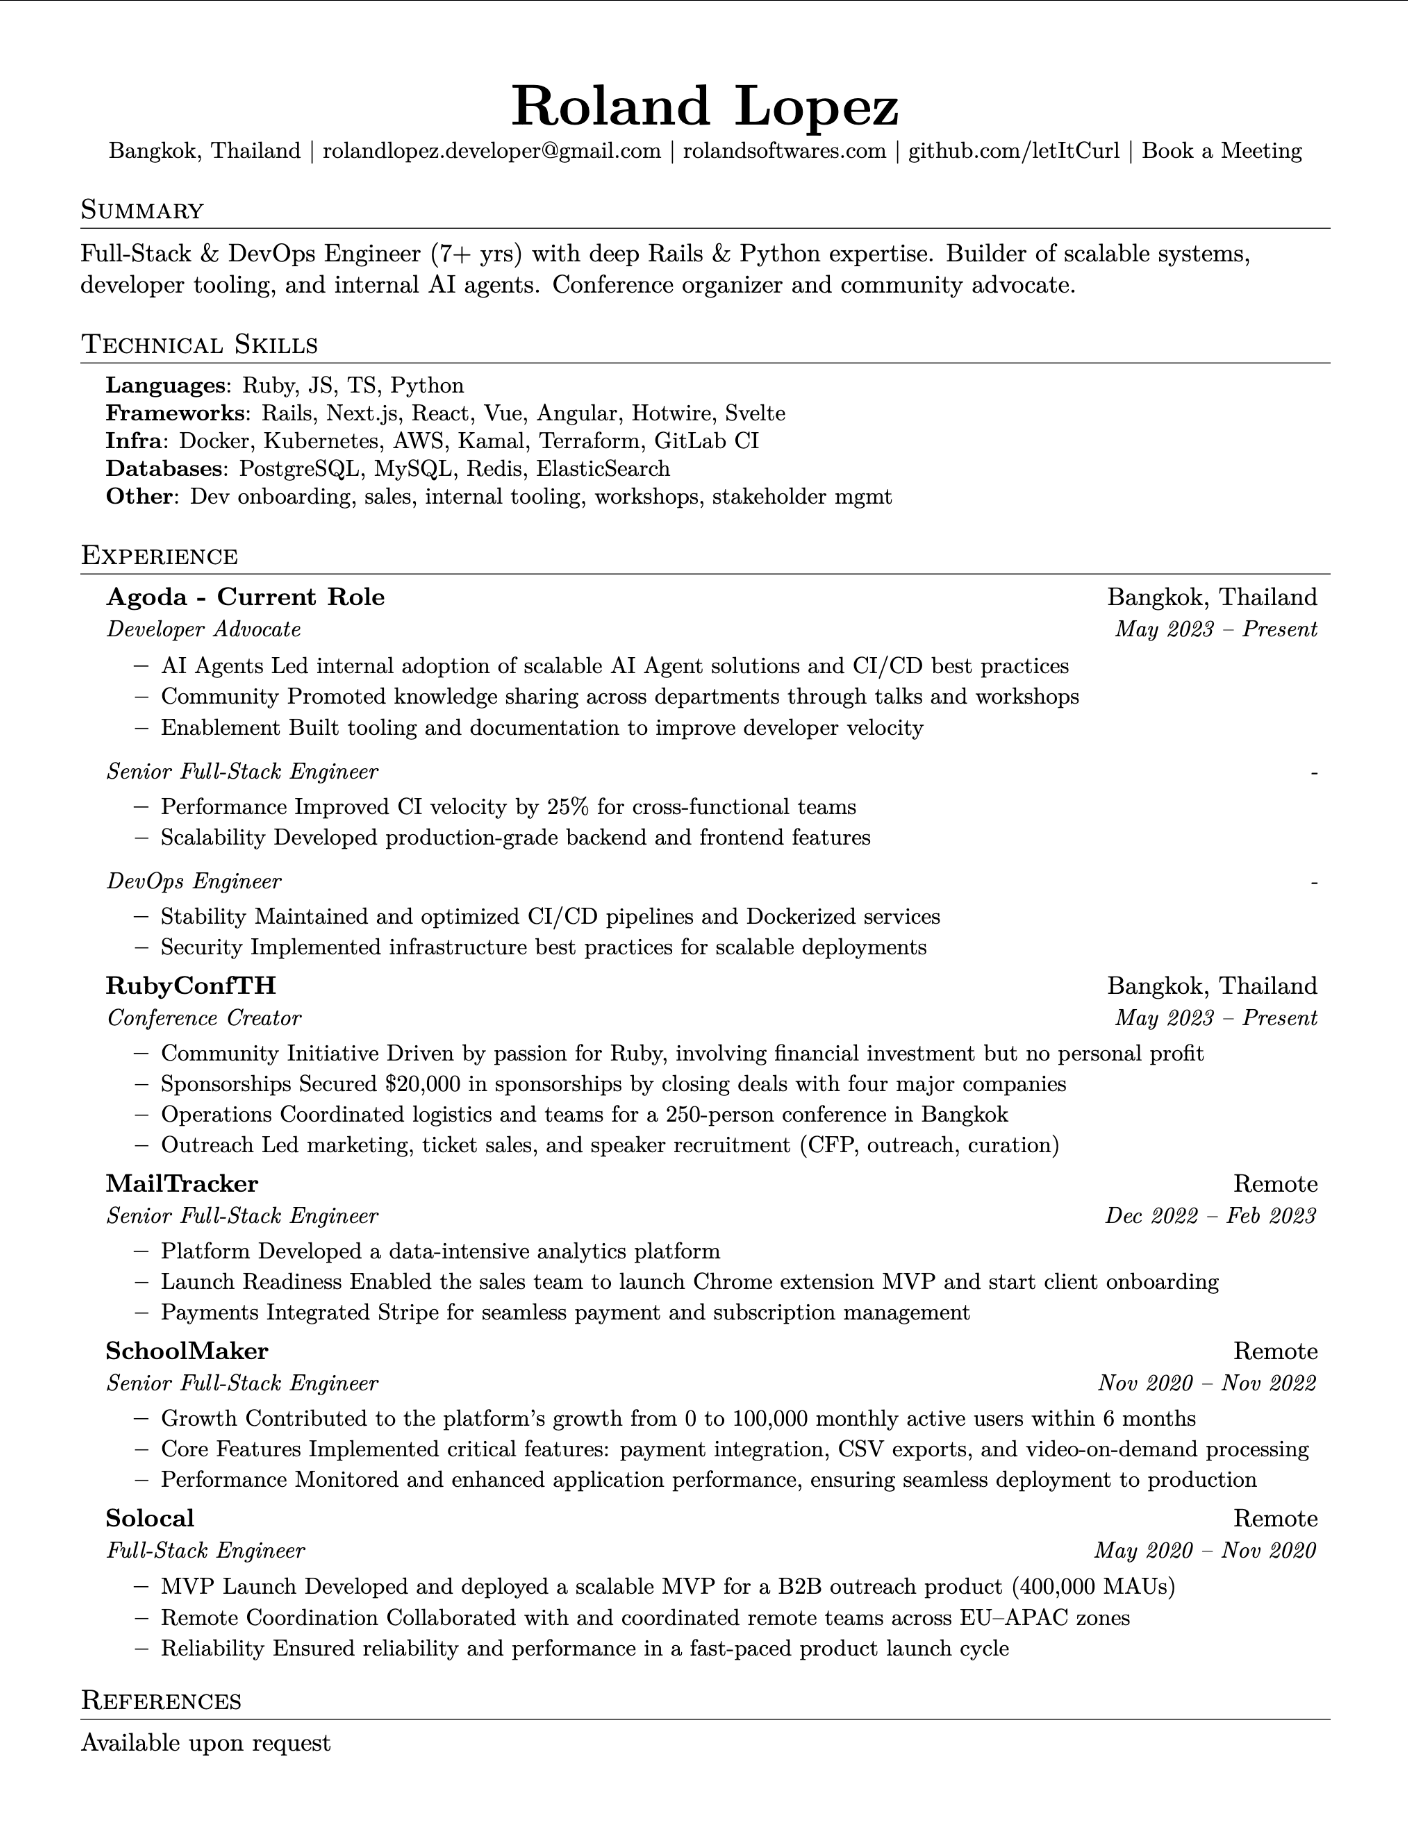
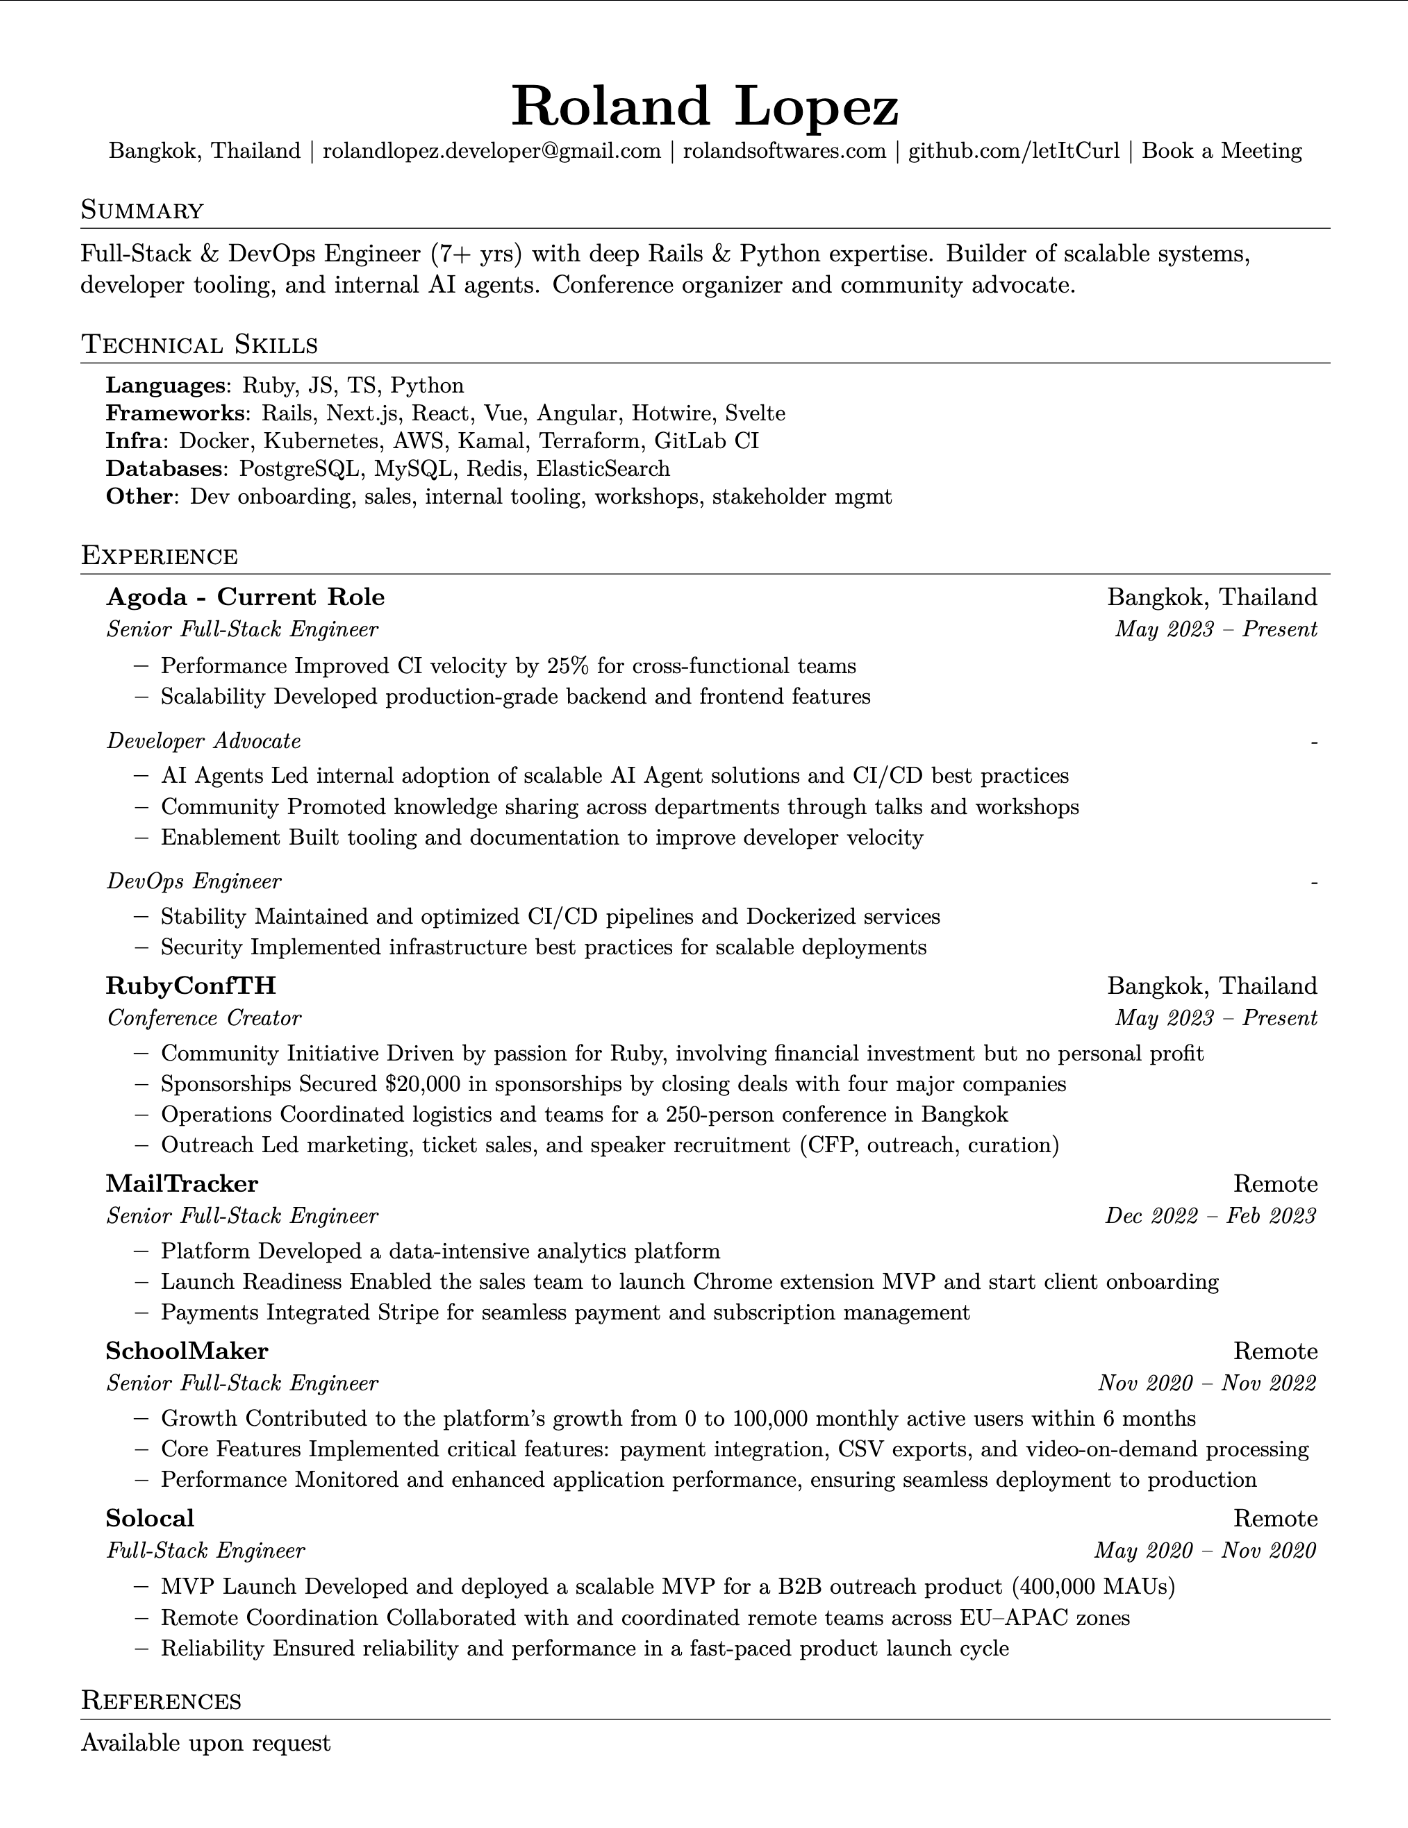
edit

Changed region(s): [[0.0625, 0.343, 0.6875, 0.4677], [0.7188, 0.343, 0.75, 0.4677]]

diff --git a/roland_lopez_resume.tex b/roland_lopez_resume.tex
@@ -87,17 +87,17 @@ Full‑Stack \& DevOps Engineer (7+ yrs) with deep Rails \& Python expertise. Bu
 \resumeSubHeadingListStart
   \resumeSubheading
     {Agoda - Current Role}{Bangkok, Thailand}
-    {Developer Advocate}{May 2023 -- Present}
+    {Senior Full‑Stack Engineer}{May 2023 -- Present}
+    \resumeItemListStart
+      \resumeItem{Performance}{Improved CI velocity by 25\% for cross-functional teams}
+      \resumeItem{Scalability}{Developed production-grade backend and frontend features}
+    \resumeItemListEnd
+
+    \resumeSubSubheading{Developer Advocate}{-}
     \resumeItemListStart
       \resumeItem{AI Agents}{Led internal adoption of scalable AI Agent solutions and CI/CD best practices}
       \resumeItem{Community}{Promoted knowledge sharing across departments through talks and workshops}
       \resumeItem{Enablement}{Built tooling and documentation to improve developer velocity}
-    \resumeItemListEnd
-
-    \resumeSubSubheading{Senior Full‑Stack Engineer}{-}
-    \resumeItemListStart
-      \resumeItem{Performance}{Improved CI velocity by 25\% for cross-functional teams}
-      \resumeItem{Scalability}{Developed production-grade backend and frontend features}
     \resumeItemListEnd
 
     \resumeSubSubheading{DevOps Engineer}{-}
